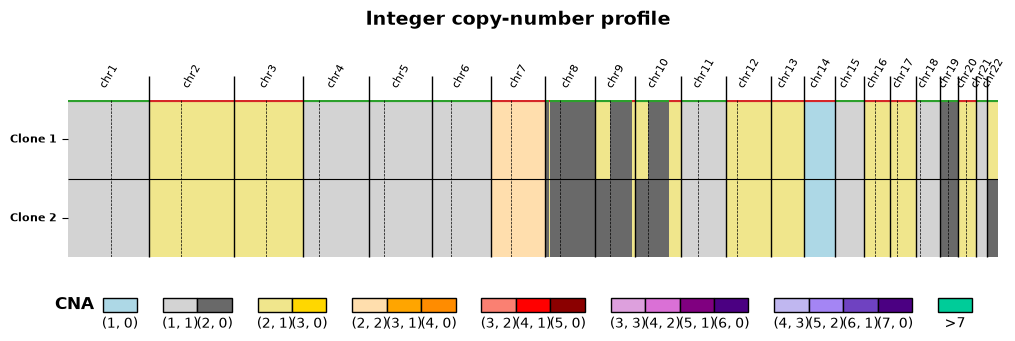
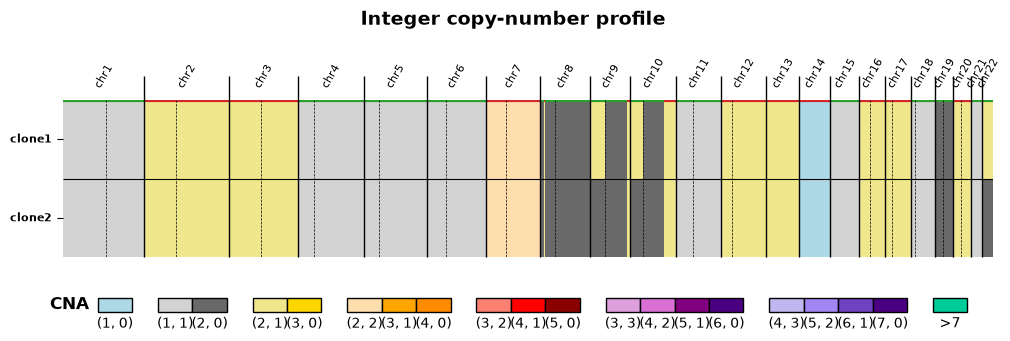
Render clone names verbatim; drop format_clone_name
Clone column names now appear as stored (clone2 -> "clone2", normal ->
"normal") wherever a clone is named - profile y-ticks and proportion
legends. Removes format_clone_name and its only helper param:

- get_clone_ylabels loses plot_clone_name; uses str(name).
- plot_cnv_profile / plot_ascn_profile lose show_clone_name, which only
  drove the removed formatting.
- __init__ re-export and the parity test go with it.

Regenerate the gallery PNGs so the embedded figures match.

diff --git a/src/cnplot/cnplot_intcnp.py b/src/cnplot/cnplot_intcnp.py
@@ -87,7 +87,6 @@ def _finish_clone_axis(
     plot_chrname: bool,
     clone_ploidies: dict | None,
     clone_props: dict | None,
-    show_clone_name: bool,
     ylabel: str | None,
     title: str | None,
     label_fontweight: str | None,
@@ -103,7 +102,6 @@ def _finish_clone_axis(
         plot_chrname: Draw chromosome labels along the top.
         clone_ploidies: Optional {clone: ploidy} map.
         clone_props: Optional {clone: proportion} map.
-        show_clone_name: Write "Clone N" rather than a bare "N".
         ylabel: Optional y-axis label.
         title: Optional axes title.
         label_fontweight: Font weight for clone labels, or None for default.
@@ -118,7 +116,6 @@ def _finish_clone_axis(
     ax.set_yticks([h * (i + 0.5) for i in range(num_clones)])
     labels = get_clone_ylabels(
         clones,
-        plot_clone_name=show_clone_name,
         clone_ploidies=clone_ploidies,
         clone_props=clone_props,
     )
@@ -402,7 +399,6 @@ def plot_cnv_profile(
     title: str | None = None,
     ylabel: str | None = None,
     plot_chrname: bool = True,
-    show_clone_name: bool = True,
     show_prop: bool = False,
     show_pi_viol: bool = True,
     clone_ploidies: dict | None = None,
@@ -438,7 +434,6 @@ def plot_cnv_profile(
         title: Optional axes title.
         ylabel: Optional y-axis label.
         plot_chrname: Draw chromosome labels along the top.
-        show_clone_name: Write "Clone N" rather than a bare "N".
         show_prop: Add each clone's proportion to its row label when the table
             carries ``u_<clone>`` columns.
         show_pi_viol: Draw the ``PI_VIOL`` overlay when the column is present:
@@ -541,7 +536,6 @@ def plot_cnv_profile(
         plot_chrname,
         clone_ploidies,
         props,
-        show_clone_name,
         ylabel,
         title,
         label_fontweight="bold",
@@ -660,7 +654,6 @@ def plot_ascn_profile(
     title: str | None = None,
     ylabel: str | None = None,
     plot_chrname: bool = True,
-    show_clone_name: bool = True,
     show_prop: bool = False,
     clone_ploidies: dict | None = None,
     show_mirror: bool = True,
@@ -700,7 +693,6 @@ def plot_ascn_profile(
         title: Optional axes title.
         ylabel: Optional y-axis label.
         plot_chrname: Draw chromosome labels along the top.
-        show_clone_name: Write "Clone N" rather than a bare "N".
         show_prop: Add each clone's proportion to its row label.
         clone_ploidies: Optional {clone: ploidy} map for the row labels.
         show_mirror: Mark mirrored bins - those whose clones disagree on which
@@ -821,7 +813,6 @@ def plot_ascn_profile(
         plot_chrname,
         clone_ploidies,
         props,
-        show_clone_name,
         ylabel,
         title,
         label_fontweight=None,

diff --git a/src/cnplot/cnplot_utils.py b/src/cnplot/cnplot_utils.py
@@ -10,7 +10,6 @@ in :mod:`cnplot.cnplot_io_utils`.
 """
 
 import logging
-import re
 
 import matplotlib.colors as mcolors
 import matplotlib.pyplot as plt
@@ -37,7 +36,6 @@ __all__ = [
     "decorate_genome_axis",
     "draw_chr_boundaries",
     "draw_segment_boundaries",
-    "format_clone_name",
     "get_clone_ylabels",
     "get_transparency",
     "resolve_colors",
@@ -248,44 +246,19 @@ def shade_regions(
                 )
 
 
-def format_clone_name(name, plot_clone_name: bool = True) -> str:
-    """Render a clone column name for display.
-
-    Shared by every place a clone is named - row labels and proportion legends -
-    so one profile cannot say "Clone 1" while its legend says "clone1".
-
-    Args:
-        name: Clone name as it appears after the ``cn_`` prefix.
-        plot_clone_name: Write "Clone N" rather than a bare "N".
-
-    Returns:
-        "Normal" for the normal clone, "Clone N" for a ``cloneN`` name, and
-        anything else verbatim.
-    """
-    text = str(name)
-    if text == NORMAL_CLONE:
-        return "Normal"
-    m = re.fullmatch(r"clone(\d+)", text)
-    if m:
-        return f"Clone {m.group(1)}" if plot_clone_name else m.group(1)
-    return text
-
-
 def get_clone_ylabels(
     clones: list,
-    plot_clone_name: bool = True,
     clone_ploidies: dict | None = None,
     clone_props: dict | None = None,
 ) -> list:
     """Build y-tick labels for a clone-stacked panel.
 
     Returned bottom-to-top, matching ascending y, so ``clones[0]`` ends up as the
-    top row. A name like "clone2" renders as "Clone 2"; anything else is used
-    verbatim. Each optional map adds a line only for the clones it contains.
+    top row. Clone names are used verbatim. Each optional map adds a line only for
+    the clones it contains.
 
     Args:
         clones: Clone names in stacking order, top row first.
-        plot_clone_name: Write "Clone N" rather than a bare "N".
         clone_ploidies: Optional {clone: ploidy}, adding a "ploidy X" line.
         clone_props: Optional {clone: proportion} in [0, 1], adding "prop X%".
 
@@ -294,7 +267,7 @@ def get_clone_ylabels(
     """
     ylabels = []
     for name in reversed(clones):
-        lines = [format_clone_name(name, plot_clone_name)]
+        lines = [str(name)]
         if clone_ploidies is not None and name in clone_ploidies:
             lines.append(f"ploidy {round(clone_ploidies[name], 2)}")
         if clone_props is not None and name in clone_props:

diff --git a/tests/test_utils_colormap.py b/tests/test_utils_colormap.py
@@ -6,7 +6,6 @@ import numpy as np
 from cnplot import (
     MARKER_SIZE_LARGE,
     MARKER_SIZE_SMALL,
-    format_clone_name,
     get_baf_cmap,
     get_categorical_cmap,
     get_cn_cmap,
@@ -55,13 +54,6 @@ def test_resolve_colors_hue_and_alpha():
 def test_resolve_colors_unmapped_falls_back():
     out = resolve_colors(1, hue=["z"], palette={}, default="steelblue")
     assert np.allclose(out[0], mcolors.to_rgba("steelblue"))
-
-
-def test_format_clone_name():
-    assert format_clone_name("normal") == "Normal"
-    assert format_clone_name("clone2") == "Clone 2"
-    assert format_clone_name("clone2", plot_clone_name=False) == "2"
-    assert format_clone_name("T_cell") == "T_cell"
 
 
 def test_baf_cmap_builds():

diff --git a/src/cnplot/cnplot_figures.py b/src/cnplot/cnplot_figures.py
@@ -32,7 +32,6 @@ from .cnplot_intcnp import (
 from .cnplot_utils import (
     NORMAL_CLONE,
     SAMPLE_COL,
-    format_clone_name,
     resolve_marker_size,
 )
 
@@ -76,7 +75,7 @@ def _draw_prop_legend(
     names = ([normal_clone] if normal_clone else []) + tumor
     props = get_clone_proportions(sub, names)
     handles = [
-        Line2D([0], [0], alpha=0, label=f"{format_clone_name(n)}: {p:.3f}")
+        Line2D([0], [0], alpha=0, label=f"{n}: {p * 100:.2f}%")
         for n, p in props.items()
         if n == normal_clone
         or display_min_clone_prop is None

diff --git a/src/cnplot/cnplot_2d.py b/src/cnplot/cnplot_2d.py
@@ -398,7 +398,12 @@ def plot_scatter_2d(
             )
             if props:
                 handles = [
-                    Line2D([0], [0], alpha=0, label=f"{name}: {prop * 100:.2f}%")
+                    Line2D(
+                        [0],
+                        [0],
+                        alpha=0,
+                        label=f"{name}: {prop * 100:.2f}%",
+                    )
                     for name, prop in props.items()
                     if name == normal or name in shown
                 ]

diff --git a/src/cnplot/__init__.py b/src/cnplot/__init__.py
@@ -57,7 +57,6 @@ from .cnplot_utils import (
     decorate_genome_axis,
     draw_chr_boundaries,
     draw_segment_boundaries,
-    format_clone_name,
     get_clone_ylabels,
     get_transparency,
     resolve_colors,
@@ -100,7 +99,6 @@ __all__ = [
     "decorate_genome_axis",
     "draw_chr_boundaries",
     "draw_segment_boundaries",
-    "format_clone_name",
     "get_ascn_cmap",
     "get_baf_cmap",
     "get_categorical_cmap",
